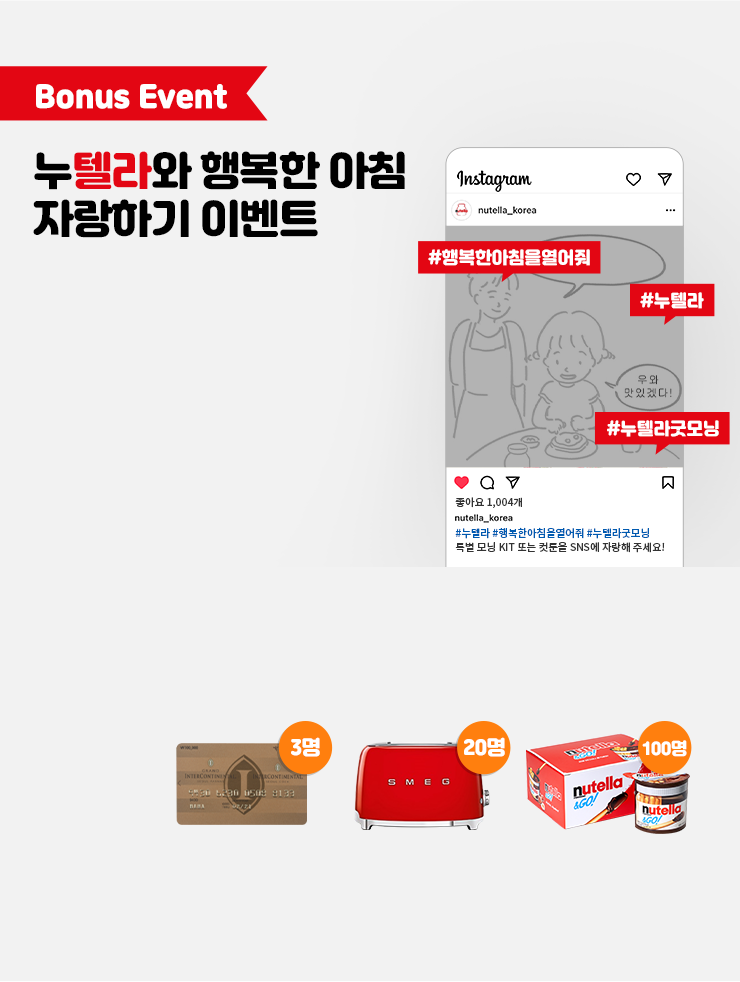
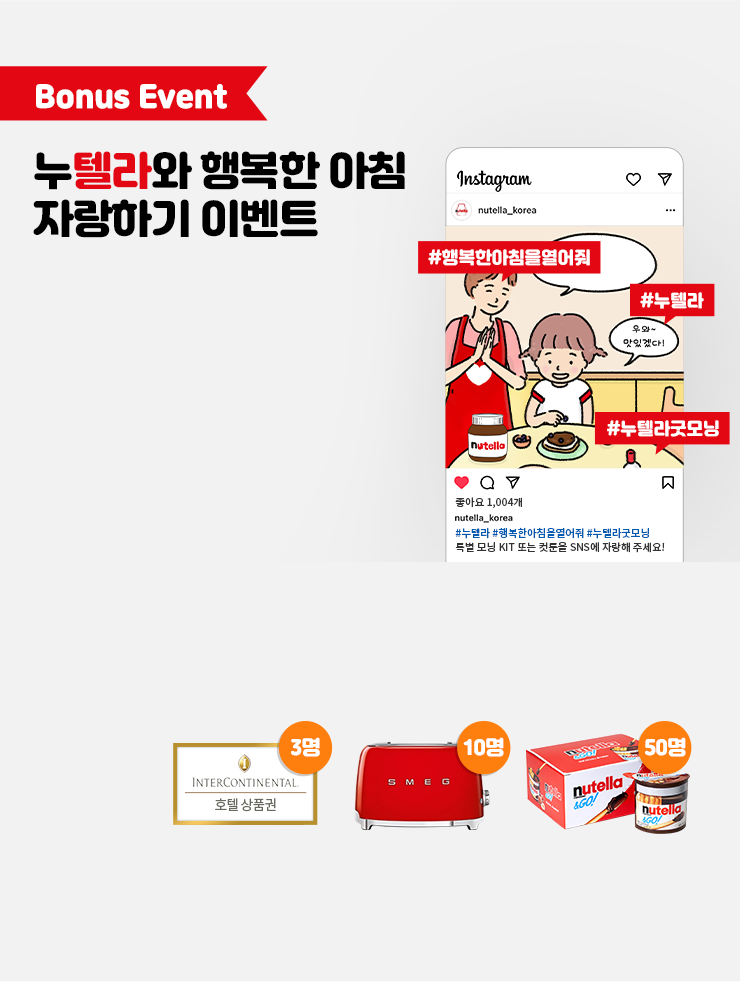
bonus img 교체 및 폰트 수정

diff --git a/210820/css/style-pc-large.less b/210820/css/style-pc-large.less
@@ -197,7 +197,7 @@
     section.event-bonus { background: url("../img/pc/bonus-2560.png") top center no-repeat; .cover; .h(737); .rel;
       .inner { .abs; .lt(50%,266); .ml(-474);
         p { .fs(20); .lh(28); .light; .tl; }
-        .txt { .fs(20);  s { color:#e30613; .bold; }}
+        .txt { .fs(25); .medium;  s { color:#e30613; .bold; }}
         span { .fs(18); .light; .lh(24); .mt(6); color:#666; .block; .tl; }
         .txt-box { .mt(20);
           p { .rel; .mb(9);
@@ -208,11 +208,11 @@
             //&:nth-child(2) { .ml(35); }
           }
         }
-        .gift { .mt(95); .tl; .pl(120); .-box;
-          p { .fs(18); .ib; .w(110); .tc;
-            &:nth-child(1) { .mr(60); }
-            &:nth-child(2) { .mr(15); }
-            &:nth-child(3) { .w(210); .mr(0); }
+        .gift { .mt(95); .tl; .pl(85); .-box; .ml(0);
+          p { .fs(18); .ib; .w(200); .tc; .vat;
+            &:nth-child(1) { .mr(0); }
+            &:nth-child(2) { .w(130); }
+            &:nth-child(3) { .w(210); }
           }
         }
         .gift-notice { .fs(20); color:#666; .wh(615,35); .lh(35); .mt(15); .-a(#d0d0d0); .tc; }

diff --git a/210820/css/style-pc-large.css b/210820/css/style-pc-large.css
@@ -757,7 +757,8 @@
     text-align: left;
   }
   #campaign section.event-bonus .inner .txt {
-    font-size: 1.25rem;
+    font-size: 1.5625rem;
+    font-weight: 500;
   }
   #campaign section.event-bonus .inner .txt s {
     color: #e30613;
@@ -801,24 +802,25 @@
   #campaign section.event-bonus .inner .gift {
     margin-top: 5.9375rem;
     text-align: left;
-    padding-left: 7.5rem;
+    padding-left: 5.3125rem;
     box-sizing: border-box;
+    margin-left: 0rem;
   }
   #campaign section.event-bonus .inner .gift p {
     font-size: 1.125rem;
     display: inline-block;
-    width: 6.875rem;
+    width: 12.5rem;
     text-align: center;
+    vertical-align: top;
   }
   #campaign section.event-bonus .inner .gift p:nth-child(1) {
-    margin-right: 3.75rem;
+    margin-right: 0rem;
   }
   #campaign section.event-bonus .inner .gift p:nth-child(2) {
-    margin-right: 0.9375rem;
+    width: 8.125rem;
   }
   #campaign section.event-bonus .inner .gift p:nth-child(3) {
     width: 13.125rem;
-    margin-right: 0rem;
   }
   #campaign section.event-bonus .inner .gift-notice {
     font-size: 1.25rem;

diff --git a/210820/css/style-m.css b/210820/css/style-m.css
@@ -681,7 +681,7 @@
     font-size: 2.97297297vw;
     font-weight: 300;
     line-height: 4.05405405vw;
-    margin-top: 5.54054054vw;
+    margin-top: 2.7027027vw;
     color: #666;
     display: inline-block;
     text-indent: -1.35135135vw;
@@ -718,7 +718,7 @@
   #campaign section.event-bonus .gift {
     font-size: 0vw;
     position: absolute;
-    left: 19.32432432vw;
+    left: 20.67567568vw;
     top: 112.83783784vw;
     right: auto;
     bottom: auto;
@@ -726,16 +726,19 @@
   #campaign section.event-bonus .gift p {
     font-size: 2.43243243vw;
     display: inline-block;
-    width: 24.05405405vw;
+    width: 25vw;
     text-align: center;
+  }
+  #campaign section.event-bonus .gift p:nth-child(2) {
+    width: 22.02702703vw;
   }
   #campaign section.event-bonus .gift p:nth-child(3) {
     width: 28.91891892vw;
   }
   #campaign section.event-bonus .gift-notice {
     font-size: 3.24324324vw;
-    margin-top: 16.89189189vw;
-    padding-left: 19.18918919vw;
+    margin-top: 17.56756757vw;
+    padding-left: 17.2972973vw;
     box-sizing: border-box;
   }
   #campaign section.buy {

diff --git a/210820/css/style-m.less b/210820/css/style-m.less
@@ -174,7 +174,7 @@
 
     section.event-bonus { .contain("../img/m/bonus.png"); .h(982); .p(269,0,0,30); .-box; .tl; .rel;
       .txt { .fs(35); .lh(45); .light;  s { color:#e30613; .bold; }}
-      span { .fs(22); .light; .lh(30); .mt(41); color:#666; .ib; .ti(-10); .ml(10); }
+      span { .fs(22); .light; .lh(30); .mt(20); color:#666; .ib; .ti(-10); .ml(10); }
       .txt-box { .mt(50);
         p { .fs(24); .lh(32); .pl(15); .rel; .mb(10); .-box;
           s { .bold; .ib; .w(140);
@@ -184,12 +184,13 @@
           //&:nth-child(2) { .ml(15); }
         }
       }
-      .gift { .fs(0); .abs; .lt(143,835);
-        p { .fs(18); .ib; .w(178); .tc;
+      .gift { .fs(0); .abs; .lt(153,835);
+        p { .fs(18); .ib; .w(185); .tc;
+          &:nth-child(2) { .w(163); }
           &:nth-child(3) { .w(214); }
         }
       }
-      .gift-notice { .fs(24); .mt(125); .pl(142); .-box; }
+      .gift-notice { .fs(24); .mt(130); .pl(128); .-box; }
     }
     section.buy { .contain("../img/m/buy.png"); .h(488); .pt(163); .-box;
       .btns { .fs(0); .pl(412); .-box;

diff --git a/210820/css/style-pc-small.css b/210820/css/style-pc-small.css
@@ -757,7 +757,8 @@
     text-align: left;
   }
   #campaign section.event-bonus .inner .txt {
-    font-size: 1rem;
+    font-size: 1.25rem;
+    font-weight: 500;
   }
   #campaign section.event-bonus .inner .txt s {
     color: #e30613;
@@ -799,24 +800,22 @@
     bottom: auto;
   }
   #campaign section.event-bonus .inner .gift {
-    margin-top: 5.5rem;
+    margin-top: 6rem;
     text-align: left;
+    margin-left: -1.5rem;
   }
   #campaign section.event-bonus .inner .gift p {
     font-size: 0.9rem;
     display: inline-block;
-    width: 6.5rem;
+    width: 10rem;
     text-align: center;
+    vertical-align: top;
   }
   #campaign section.event-bonus .inner .gift p:nth-child(1) {
-    margin-right: 3.75rem;
+    margin-right: 0.5rem;
   }
   #campaign section.event-bonus .inner .gift p:nth-child(2) {
-    margin-right: 0.75rem;
-  }
-  #campaign section.event-bonus .inner .gift p:nth-child(3) {
-    width: 10.5rem;
-    margin-right: 0rem;
+    width: 9rem;
   }
   #campaign section.event-bonus .inner .gift-notice {
     font-size: 0.8rem;

diff --git a/210820/css/style-pc-small.less b/210820/css/style-pc-small.less
@@ -197,7 +197,7 @@
     section.event-bonus { background: url("../img/pc/bonus.png") top center no-repeat; .cover; .h(734); .rel;
       .inner { .abs; .lt(50%,266); .ml(-474);
         p { .fs(20); .lh(28); .light; .tl; }
-        .txt { .fs(20);  s { color:#e30613; .bold; }}
+        .txt { .fs(25); .medium; s { color:#e30613; .bold; }}
         span { .fs(18); .light; .lh(24); .mt(6); color:#666; .block; .tl; }
         .txt-box { .mt(20);
           p { .rel; .mb(9);
@@ -208,11 +208,10 @@
             //&:nth-child(2) { .ml(35); }
           }
         }
-        .gift { .mt(110); .tl;
-          p { .fs(18); .ib; .w(130); .tc;
-            &:nth-child(1) { .mr(75); }
-            &:nth-child(2) { .mr(15); }
-            &:nth-child(3) { .w(210); .mr(0); }
+        .gift { .mt(120); .tl; .ml(-30);
+          p { .fs(18); .ib; .w(200); .tc; .vat;
+            &:nth-child(1) { .mr(10);}
+            &:nth-child(2) { .w(180);}
           }
         }
         .gift-notice { .fs(16); color:#666; .wh(560,30); .lh(30); .mt(15); .-a(#d0d0d0); .tc; }

diff --git a/210820/index.html b/210820/index.html
@@ -241,7 +241,7 @@
         <p><s>경품</s></p>
       </div>
       <div class="gift">
-        <p>호텔 상품권</p>
+        <p>인터컨티넨탈 호텔 상품권</p>
         <p>SMEG 토스터기</p>
         <p>누텔라앤고 멀티팩(6개입)</p>
       </div>
